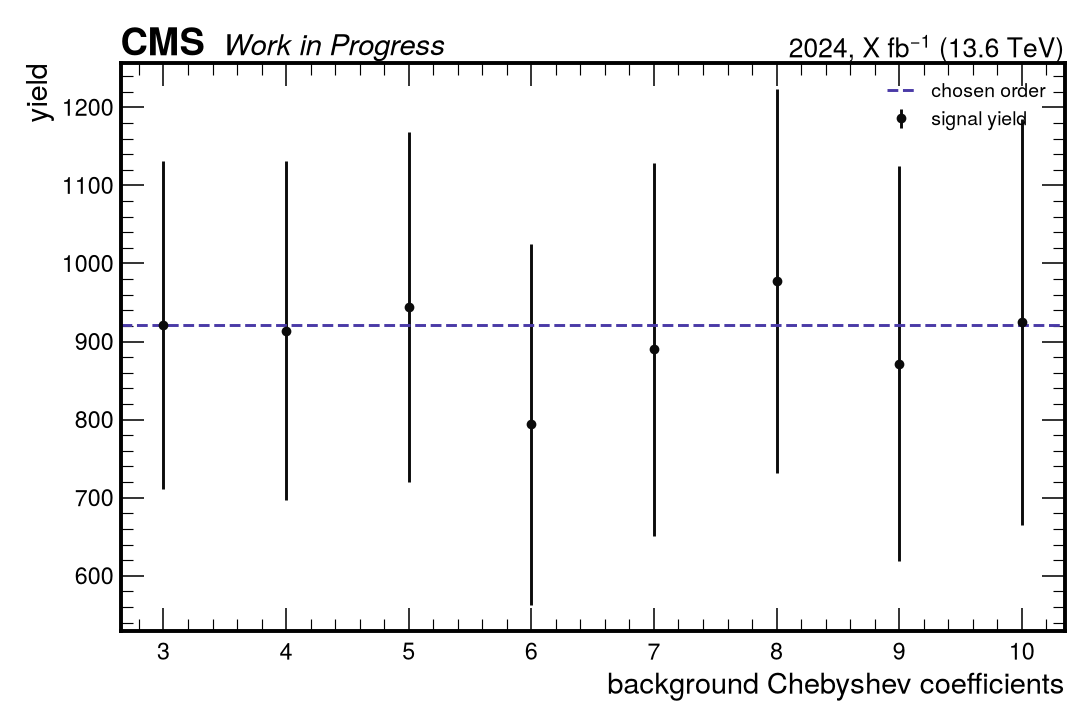
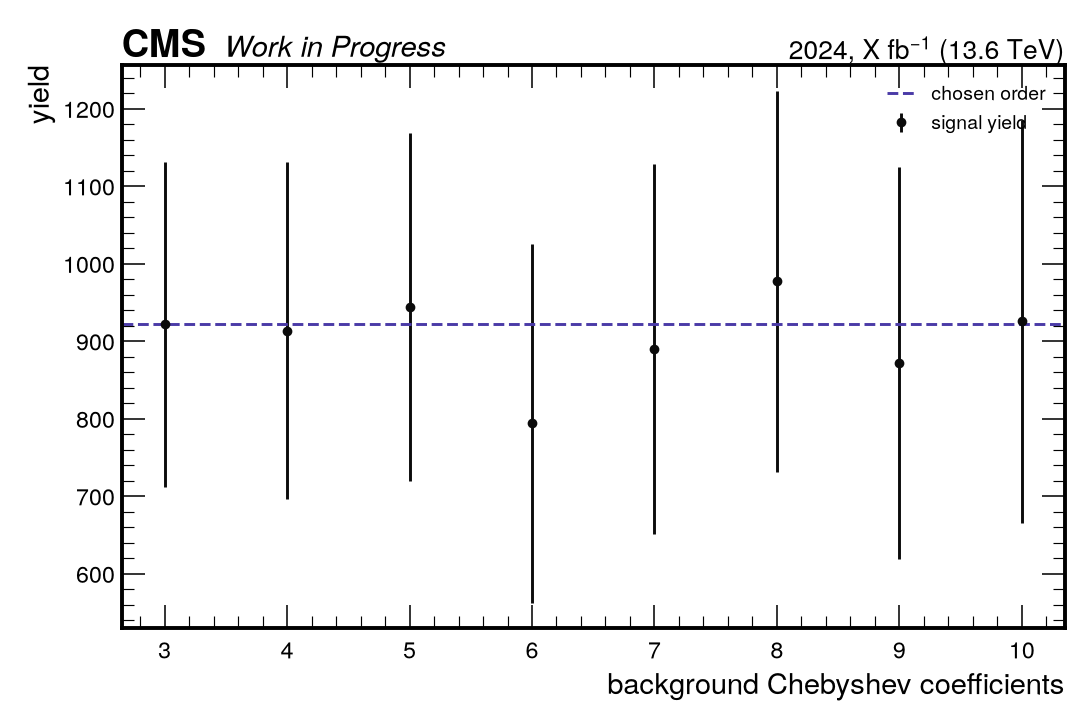
cms_label: repair the mplhep 1.1 status label under matplotlib >= 3.11
matplotlib 3.11 changed the private Text._get_layout(): its third value is no
longer the line descent but a (corner, size) pair. mplhep 1.1's append_text()
still unpacks it as the descent, so "Work in Progress" appended to "CMS" gets a
2x2 array as its y position and every canvas fails in draw()/tight_layout()
("only 0-dimensional arrays can be converted to Python scalars").
cms_label now re-places any label whose position is not scalar on the line of
the text to its left, as mplhep intends, using only public matplotlib API; it
is a no-op with older matplotlib/mplhep (checked with matplotlib 3.9.1 and
mplhep 0.3.50). examples/ regenerated with matplotlib 3.11.0 / mplhep 1.1.0:
same canvases, sub-pixel anti-aliasing differences only.

Claude-Session: https://claude.ai/code/session_01Qu2o3nvrfqsD1YYW33BfWA

diff --git a/cmsplot.py b/cmsplot.py
@@ -48,6 +48,43 @@ def cms_label(ax, com=13.6, data=True, rlabel=None, fontsize=15, status="Work in
     if not _HEP:
         return
     hep.cms.label(status, data=data, com=com, ax=ax, rlabel=rlabel, fontsize=fontsize)
+    _fix_appended_labels(ax)
+
+
+def _fix_appended_labels(ax):
+    """mplhep 1.1 with matplotlib >= 3.11: mplhep's append_text() unpacks the private Text._get_layout(), whose
+    third value changed from the line descent to a (corner, size) pair, so the label appended to 'CMS'
+    ('Work in Progress') gets an array as its y position and the figure no longer draws. Put such a label
+    where mplhep means it to go: on the line of the text to its left (public API only; no-op otherwise)."""
+    import matplotlib.text as mtext
+
+    texts = [t for t in ax.findobj(mtext.Text) if t.get_text()]
+    scalar = lambda t: np.ndim(t.get_position()[0]) == 0 and np.ndim(t.get_position()[1]) == 0  # noqa: E731
+    broken = [t for t in texts if not scalar(t)]
+    if not broken:
+        return
+    fig = ax.figure
+    r = fig.canvas.get_renderer()
+    ax_h = ax.get_position().height * fig.get_size_inches()[1] * fig.dpi  # axes height in px
+    for t in broken:
+        bx = float(np.ravel(t.get_position()[0])[0])
+        left = [u for u in texts if scalar(u) and u.get_transform() == t.get_transform() and u.get_position()[0] < bx]
+        if not left:
+            continue
+        ref = max(left, key=lambda u: u.get_position()[0])
+        prop = ref.get_fontproperties()
+        # matplotlib's own line descent: max of the text's and of "lp"
+        d = max(r.get_text_width_height_descent(ref.get_text(), prop, ismath=False)[2],
+                r.get_text_width_height_descent("lp", prop, ismath=False)[2])
+        ry, va = float(ref.get_position()[1]), ref.get_verticalalignment()
+        if va == "bottom":
+            y = ry + d / ax_h
+        elif va == "top":
+            y = ry + d / ax_h - ref.get_window_extent(r).height / ax_h
+        else:  # baseline
+            y = ry
+        t.set_position((bx, y))
+        t.set_verticalalignment("baseline")
 
 
 def make_fit_axes(fig, subplotspec):
